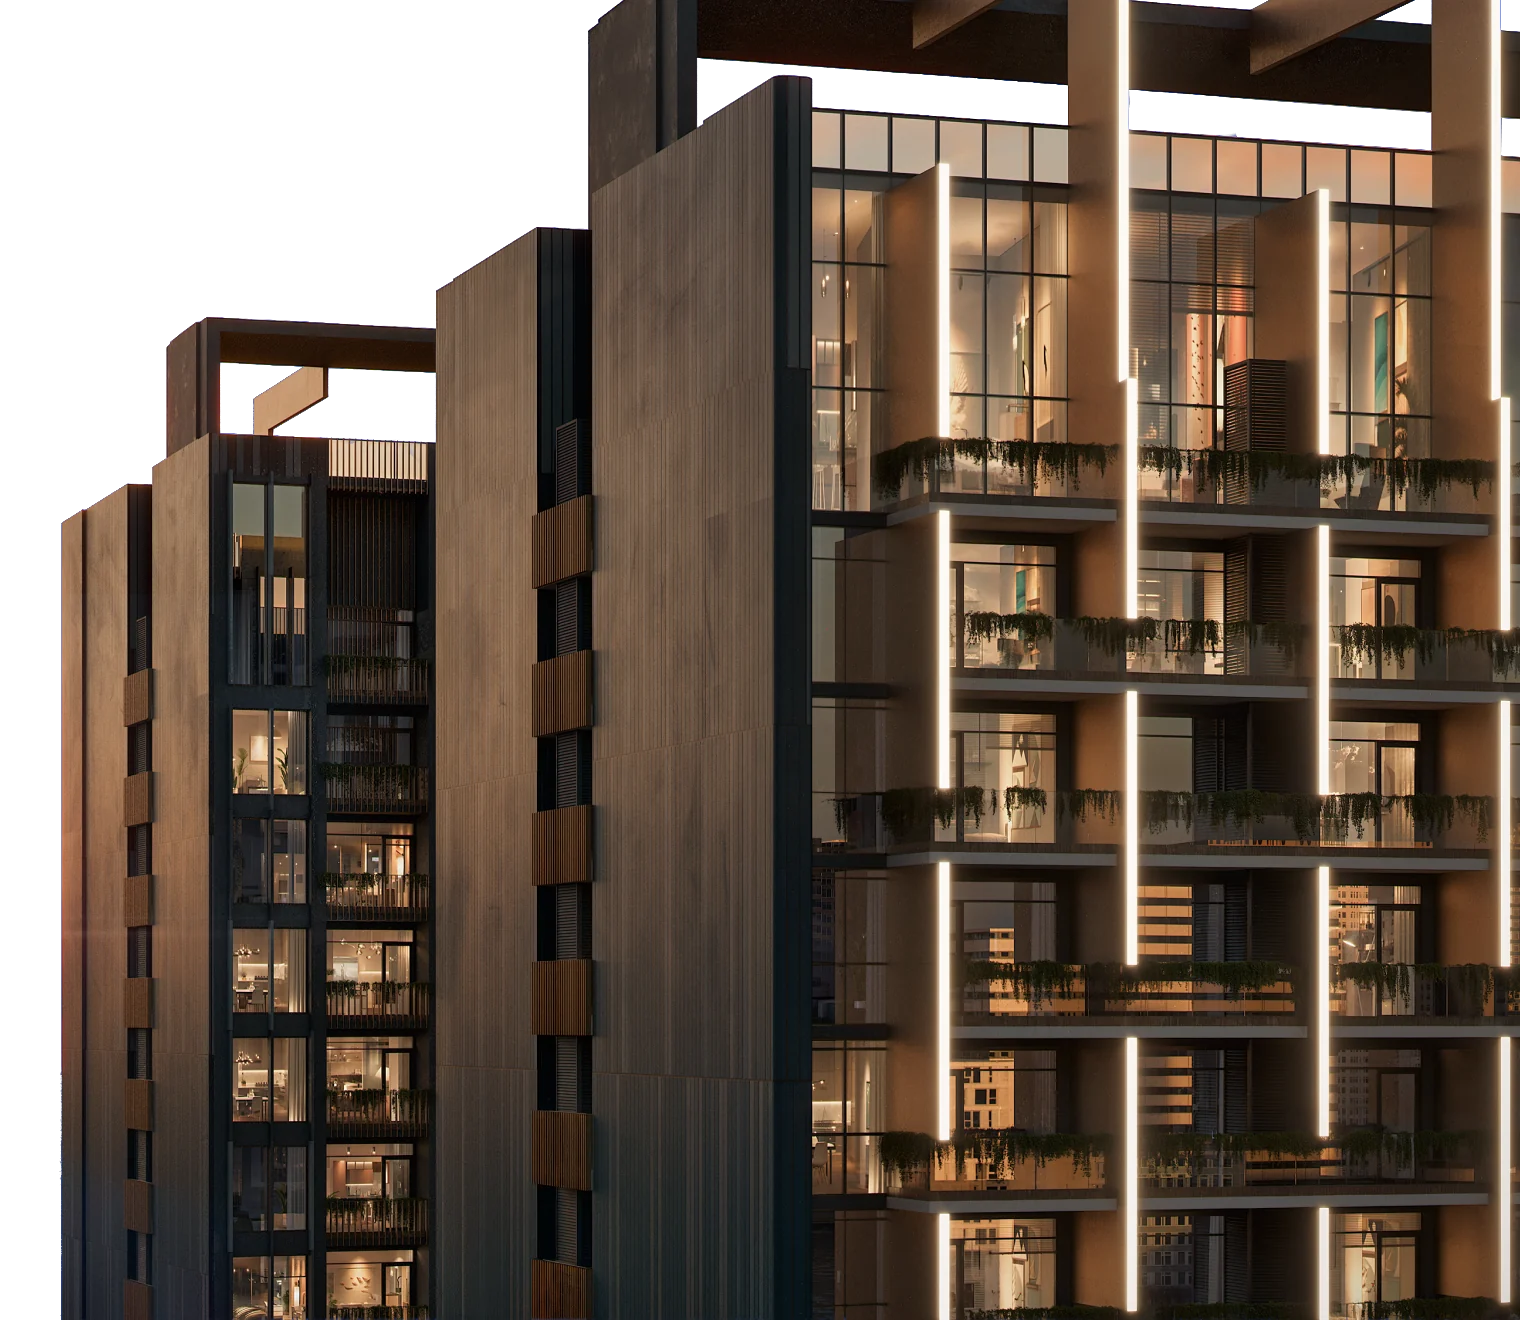
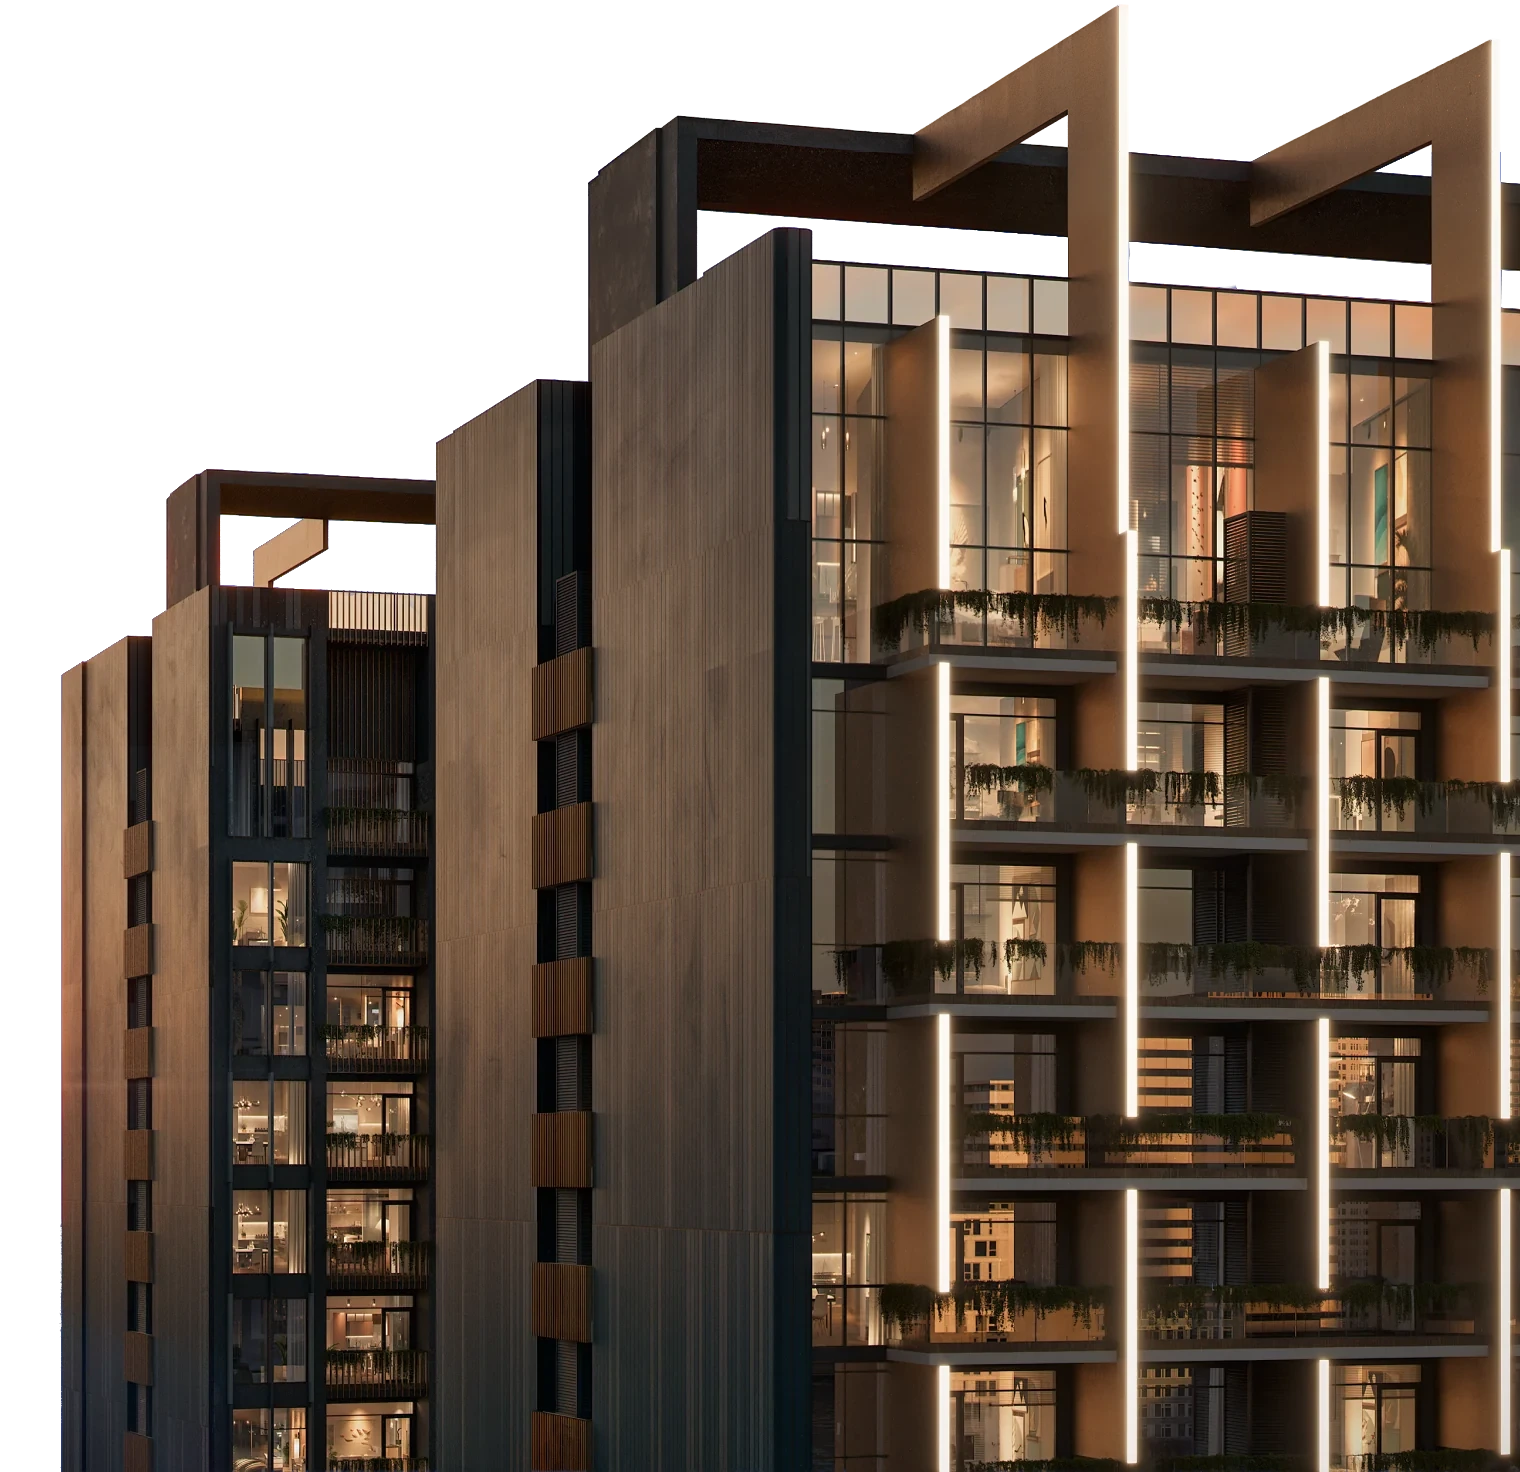
Reverance key project information: show the whole building as in Figma
The render was cut flat at y 242, losing the tower tops and roof frames that
Figma frame REVERANCE 405:327 shows from y 166. The missing strip is restored
from the frame's 2x export (keyed off the cobalt so it works on all three
themes) and the image box is 760 x 736 at the band foot. Longer German,
Polish and Slovenian titles reach over the towers, so there the render sits
lower (foot clipped by the band) to keep the roof frames 24px under the title.

Claude-Session: https://claude.ai/code/session_01JsCxYPU6xP8vRFHVe22Lup

diff --git a/src/components/reverance-figma.css b/src/components/reverance-figma.css
@@ -505,7 +505,15 @@ html:root[data-time-theme='afternoon'] .rv-page .rv-band .rv-eyebrow { color: va
 
 .rv-page .rv-details { min-height: calc(902 * var(--u)); }
 .rv-page .rv-details .rv-frame { padding-top: calc(66 * var(--u)); padding-bottom: calc(44 * var(--u)); }
-.rv-page .rv-details-figure { bottom: 0; left: calc(50% - 40 * var(--u)); width: calc(760 * var(--u)); height: calc(660 * var(--u)); }
+/* Figma: the render runs from y 166 to the band foot (736 tall), so the tower tops and roof frames show in full. */
+.rv-page .rv-details-figure { bottom: calc(-1 * var(--rv-kpi-drop, 0) * var(--u)); left: calc(50% - 40 * var(--u)); width: calc(760 * var(--u)); height: calc(736 * var(--u)); }
+/* Longer translated titles run past x 970 where the towers rise: the render sits lower (its foot clipped
+   by the band) so the roof frames stay clear of the title, 24px under its letters. */
+@media (min-width: 900px) {
+  :root:lang(de) .rv-page .rv-details-figure { --rv-kpi-drop: 35; }
+  :root:lang(pl) .rv-page .rv-details-figure { --rv-kpi-drop: 67; }
+  :root:lang(sl) .rv-page .rv-details-figure { --rv-kpi-drop: 12; }
+}
 .rv-page .rv-details-title { margin-top: calc(19 * var(--u)); color: var(--rv-on-band); }
 .rv-page .rv-details-stats { display: flex; margin: calc(61.8 * var(--u)) 0 0 calc(5 * var(--u)); }
 .rv-page .rv-details-stats > div { box-sizing: border-box; height: calc(160 * var(--u)); padding-top: calc(11 * var(--u)); }
